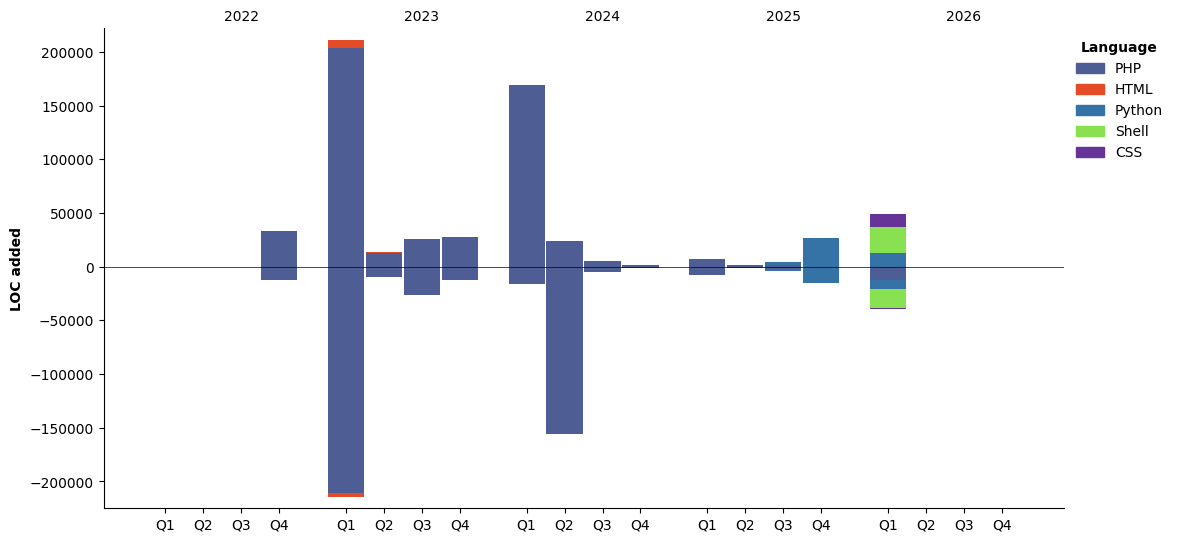
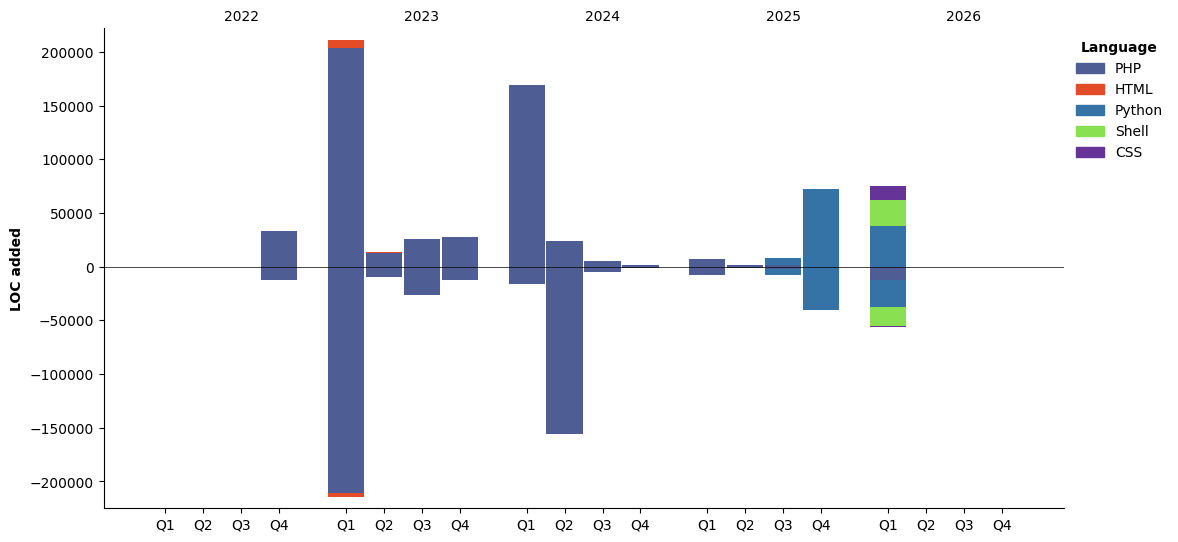
Update metrics

Changed region(s): [[0.6723, 0.3247, 0.7946, 0.4723], [0.6418, 0.4723, 0.7946, 0.6199]]

diff --git a/README.md b/README.md
@@ -27,15 +27,15 @@ Here are some ideas to get you started:
 -->
 
 <!--START_SECTION:waka-->
-![Code Time](http://img.shields.io/badge/Code%20Time-90%20hrs%201%20min-blue?style=flat)
+![Code Time](http://img.shields.io/badge/Code%20Time-89%20hrs%2046%20mins-blue?style=flat)
 
-![Lines of code](https://img.shields.io/badge/From%20Hello%20World%20I%27ve%20Written-602.18%20thousand%20lines%20of%20code-blue?style=flat)
+![Lines of code](https://img.shields.io/badge/From%20Hello%20World%20I%27ve%20Written-677.86%20thousand%20lines%20of%20code-blue?style=flat)
 
 **🐱 My GitHub Data** 
 
-> 📦 54.5 kB Used in GitHub's Storage 
+> 📦 54.8 kB Used in GitHub's Storage 
  > 
-> 🏆 692 Contributions in the Year 2026
+> 🏆 715 Contributions in the Year 2026
  > 
 > 💼 Opted to Hire
  > 
@@ -46,21 +46,21 @@ Here are some ideas to get you started:
 **I'm a Night 🦉** 
 
 ```text
-🌞 Morning                615 commits         ████░░░░░░░░░░░░░░░░░░░░░   16.42 % 
-🌆 Daytime                641 commits         ████░░░░░░░░░░░░░░░░░░░░░   17.12 % 
-🌃 Evening                1116 commits        ███████░░░░░░░░░░░░░░░░░░   29.80 % 
-🌙 Night                  1373 commits        █████████░░░░░░░░░░░░░░░░   36.66 % 
+🌞 Morning                869 commits         ████░░░░░░░░░░░░░░░░░░░░░   15.01 % 
+🌆 Daytime                976 commits         ████░░░░░░░░░░░░░░░░░░░░░   16.86 % 
+🌃 Evening                1752 commits        ████████░░░░░░░░░░░░░░░░░   30.26 % 
+🌙 Night                  2193 commits        █████████░░░░░░░░░░░░░░░░   37.88 % 
 ```
 📅 **I'm Most Productive on Tuesday** 
 
 ```text
-Monday                   564 commits         ████░░░░░░░░░░░░░░░░░░░░░   15.06 % 
-Tuesday                  720 commits         █████░░░░░░░░░░░░░░░░░░░░   19.23 % 
-Wednesday                636 commits         ████░░░░░░░░░░░░░░░░░░░░░   16.98 % 
-Thursday                 657 commits         ████░░░░░░░░░░░░░░░░░░░░░   17.54 % 
-Friday                   417 commits         ███░░░░░░░░░░░░░░░░░░░░░░   11.13 % 
-Saturday                 374 commits         ██░░░░░░░░░░░░░░░░░░░░░░░   09.99 % 
-Sunday                   377 commits         ███░░░░░░░░░░░░░░░░░░░░░░   10.07 % 
+Monday                   711 commits         ███░░░░░░░░░░░░░░░░░░░░░░   12.28 % 
+Tuesday                  1154 commits        █████░░░░░░░░░░░░░░░░░░░░   19.93 % 
+Wednesday                1085 commits        █████░░░░░░░░░░░░░░░░░░░░   18.74 % 
+Thursday                 1147 commits        █████░░░░░░░░░░░░░░░░░░░░   19.81 % 
+Friday                   601 commits         ███░░░░░░░░░░░░░░░░░░░░░░   10.38 % 
+Saturday                 542 commits         ██░░░░░░░░░░░░░░░░░░░░░░░   09.36 % 
+Sunday                   550 commits         ██░░░░░░░░░░░░░░░░░░░░░░░   09.50 % 
 ```
 
 
